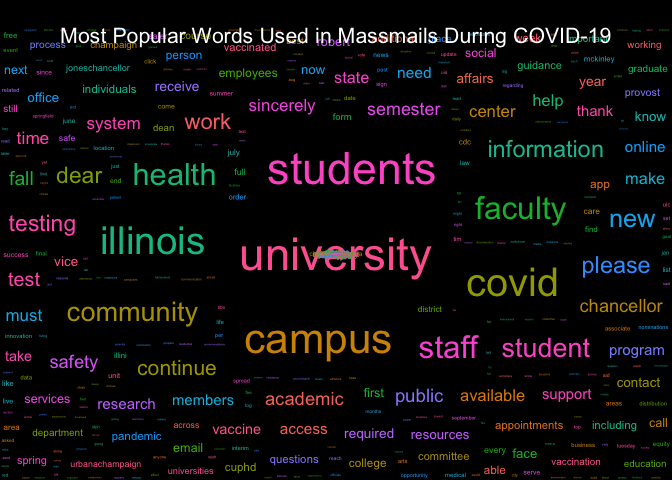
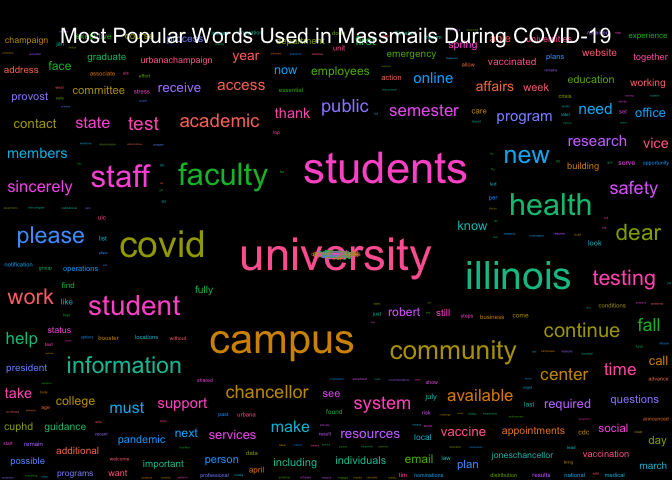
Re-build README.Rmd and Graphs

diff --git a/README.md b/README.md
@@ -17,22 +17,22 @@ The archive may be viewed here:
 
 <https://massmail.illinois.edu/massmailArchive>
 
-Data has **827** observations and **7** variables:
+Data has **811** observations and **7** variables:
 
-  - `datetime`: Date and time when the email was sent in the form of
-    `YYYY-MM-DD HMS` with either CDT or CST.
-  - `date`: Date when the email was sent in the form of `YYYY-MM-DD`.
-  - `time`: Time when the email was sent in the form of a 24 hour clock
-    with `HH:MM`.
-  - `sent`: Number of recipients of the massmail.
-  - `subject`: Text displayed in the email subject line
-  - `url`: Link to the official email in the massmail archive.
-  - `content`: Contents of the email without html markup.
+- `datetime`: Date and time when the email was sent in the form of
+  `YYYY-MM-DD HMS` with either CDT or CST.
+- `date`: Date when the email was sent in the form of `YYYY-MM-DD`.
+- `time`: Time when the email was sent in the form of a 24 hour clock
+  with `HH:MM`.
+- `sent`: Number of recipients of the massmail.
+- `subject`: Text displayed in the email subject line
+- `url`: Link to the official email in the massmail archive.
+- `content`: Contents of the email without html markup.
 
 **Sample**
 
 | datetime            | date       | time  |  sent | subject                                  | url                                                   |
-| :------------------ | :--------- | :---- | ----: | :--------------------------------------- | :---------------------------------------------------- |
+|:--------------------|:-----------|:------|------:|:-----------------------------------------|:------------------------------------------------------|
 | 2020-04-03 10:17:00 | 2020-04-03 | 10:17 | 76009 | COVID-19 update: Rising to the challenge | <https://massmail.illinois.edu/massmail/1930327.html> |
 
 **Email Contents**
@@ -51,8 +51,8 @@ Data has **827** observations and **7** variables:
 
 Data is made available under two file formats:
 
-  - CSV: [`massmail_data.csv`](data/massmail_data.csv)
-  - RDA: [`massmail_data.rda`](data/massmail_data.rda)
+- CSV: [`massmail_data.csv`](data/massmail_data.csv)
+- RDA: [`massmail_data.rda`](data/massmail_data.rda)
 
 To read in the files use either:
 
@@ -209,17 +209,17 @@ head(most_popular_words, 10) %>%
 ```
 
 | word       | freq |
-| :--------- | ---: |
-| university | 1625 |
-| students   | 1456 |
-| campus     | 1316 |
-| illinois   | 1055 |
-| covid      | 1044 |
-| faculty    |  855 |
-| community  |  826 |
-| health     |  768 |
-| staff      |  700 |
-| student    |  681 |
+|:-----------|-----:|
+| university | 1818 |
+| students   | 1582 |
+| campus     | 1434 |
+| illinois   | 1204 |
+| covid      | 1070 |
+| faculty    |  934 |
+| community  |  885 |
+| health     |  852 |
+| student    |  804 |
+| staff      |  779 |
 
 #### Wordcloud
 
